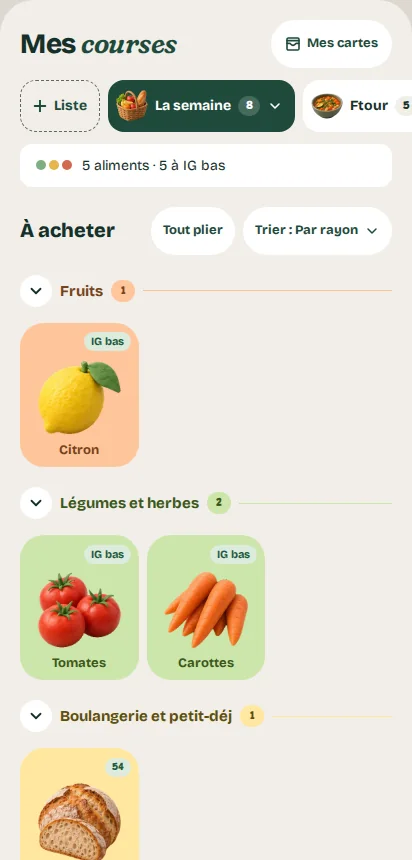
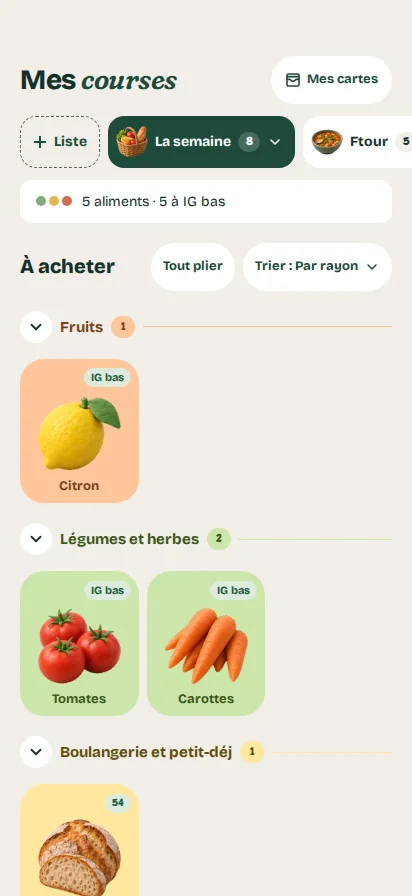
Site Glyami : cadre de téléphone réaliste, Pépin plus présent
Claude-Session: https://claude.ai/code/session_01Np99vNgDBieGw3tB7EqQeo

diff --git a/ar/index.html b/ar/index.html
@@ -19,7 +19,7 @@
 <meta property="og:site_name" content="Glyami">
 <meta property="og:locale" content="ar_AR">
 <meta property="og:url" content="https://glyami.app/ar/">
-<link rel="stylesheet" href="../assets/site.css?v=cc671edc75">
+<link rel="stylesheet" href="../assets/site.css?v=adc2521a4f">
 <script>
 document.documentElement.className="js";
 /* Mesure d'audience anonyme, sans cookie (GoatCounter). Rien n'est compté si le navigateur envoie Do Not Track / GPC ou si le visiteur a refusé. */
@@ -46,7 +46,7 @@ var s=document.createElement("script");s.async=true;s.src="https://gc.zgo.at/cou
   <p class="tagline in3">مجاني، بلا حساب، بلا إعلانات. بالفرنسية والعربية والإنجليزية والإسبانية.</p>
  </div>
  <div class="hero-phone"><div>
-  <div class="device float"><div class="phone"><div class="screen"><img src="../assets/shots/scanner.webp" srcset="../assets/shots/scanner.webp 412w, ../assets/shots/scanner-2x.webp 824w" sizes="300px" width="412" height="860" alt="شاشة التطبيق: الماسح" decoding="async"><img class="on" src="../assets/shots/fiche.webp" srcset="../assets/shots/fiche.webp 412w, ../assets/shots/fiche-2x.webp 824w" sizes="300px" width="412" height="860" alt="شاشة التطبيق: صفحة منتج مع مؤشره السكري التقديري" decoding="async"><img class=" fit" src="../assets/shots/boussole.webp" srcset="../assets/shots/boussole.webp 412w, ../assets/shots/boussole-2x.webp 824w" sizes="300px" width="412" height="640" alt="شاشة التطبيق: بوصلة بيبان وبدائله" decoding="async"></div></div><img class="pepin bob" src="../assets/img/pepin-transparent.webp" alt="" width="600" height="596"></div>
+  <div class="device float"><div class="phone"><div class="screen"><img class="dark" src="../assets/shots/scanner.webp" srcset="../assets/shots/scanner.webp 412w, ../assets/shots/scanner-2x.webp 824w" sizes="300px" width="412" height="896" alt="شاشة التطبيق: الماسح" decoding="async"><img class="on" src="../assets/shots/fiche.webp" srcset="../assets/shots/fiche.webp 412w, ../assets/shots/fiche-2x.webp 824w" sizes="300px" width="412" height="896" alt="شاشة التطبيق: صفحة منتج مع مؤشره السكري التقديري" decoding="async"><img src="../assets/shots/boussole.webp" srcset="../assets/shots/boussole.webp 412w, ../assets/shots/boussole-2x.webp 824w" sizes="300px" width="412" height="896" alt="شاشة التطبيق: بوصلة بيبان وبدائله" decoding="async"><div class="sb" dir="ltr" aria-hidden="true"><span>9:41</span><svg viewBox="0 0 46 12" fill="currentColor"><path d="M8 11.2.6 3.7a10.4 10.4 0 0 1 14.8 0z"></path><path d="M19.4 11.2h10.4V.8z"></path><rect x="36.9" y=".4" width="3.2" height="2" rx=".6"></rect><rect x="35" y="1.7" width="7" height="9.6" rx="1.5"></rect></svg></div><span class="cam" aria-hidden="true"></span><span class="pill" aria-hidden="true"></span></div></div><img class="pepin bob" src="../assets/img/pepin-transparent.webp" alt="" width="600" height="596"></div>
   <p class="shots-note">شاشات التطبيق معروضة بالفرنسية.</p>
  </div></div>
 </section>
@@ -66,7 +66,7 @@ var s=document.createElement("script");s.async=true;s.src="https://gc.zgo.at/cou
    <div class="tiles" role="group" aria-label="مشترياتي"><button type="button" class="tile l0" aria-pressed="true"><span class="tick"><svg viewBox="0 0 16 16" width="13" height="13" aria-hidden="true"><path d="M3 8.5 L6.5 12 L13 4.5" fill="none" stroke="#1E4A3A" stroke-width="2.6" stroke-linecap="round" stroke-linejoin="round"></path></svg></span><b>عدس أخضر</b><i>مؤشر منخفض</i></button><button type="button" class="tile l0" aria-pressed="false"><span class="tick"><svg viewBox="0 0 16 16" width="13" height="13" aria-hidden="true"><path d="M3 8.5 L6.5 12 L13 4.5" fill="none" stroke="#1E4A3A" stroke-width="2.6" stroke-linecap="round" stroke-linejoin="round"></path></svg></span><b>طماطم</b><i>مؤشر منخفض</i></button><button type="button" class="tile l1" aria-pressed="false"><span class="tick"><svg viewBox="0 0 16 16" width="13" height="13" aria-hidden="true"><path d="M3 8.5 L6.5 12 L13 4.5" fill="none" stroke="#1E4A3A" stroke-width="2.6" stroke-linecap="round" stroke-linejoin="round"></path></svg></span><b>أرز بسمتي</b><i>مؤشر متوسط</i></button><button type="button" class="tile l0" aria-pressed="true"><span class="tick"><svg viewBox="0 0 16 16" width="13" height="13" aria-hidden="true"><path d="M3 8.5 L6.5 12 L13 4.5" fill="none" stroke="#1E4A3A" stroke-width="2.6" stroke-linecap="round" stroke-linejoin="round"></path></svg></span><b>تفاح</b><i>مؤشر منخفض</i></button><button type="button" class="tile l2" aria-pressed="false"><span class="tick"><svg viewBox="0 0 16 16" width="13" height="13" aria-hidden="true"><path d="M3 8.5 L6.5 12 L13 4.5" fill="none" stroke="#1E4A3A" stroke-width="2.6" stroke-linecap="round" stroke-linejoin="round"></path></svg></span><b>خبز كامل</b><i>مؤشر مرتفع</i></button><button type="button" class="tile l0" aria-pressed="false"><span class="tick"><svg viewBox="0 0 16 16" width="13" height="13" aria-hidden="true"><path d="M3 8.5 L6.5 12 L13 4.5" fill="none" stroke="#1E4A3A" stroke-width="2.6" stroke-linecap="round" stroke-linejoin="round"></path></svg></span><b>لبن زبادي طبيعي</b><i>مؤشر منخفض</i></button><button type="button" class="tile l0" aria-pressed="false"><span class="tick"><svg viewBox="0 0 16 16" width="13" height="13" aria-hidden="true"><path d="M3 8.5 L6.5 12 L13 4.5" fill="none" stroke="#1E4A3A" stroke-width="2.6" stroke-linecap="round" stroke-linejoin="round"></path></svg></span><b>جزر</b><i>مؤشر منخفض</i></button><button type="button" class="tile l2" aria-pressed="false"><span class="tick"><svg viewBox="0 0 16 16" width="13" height="13" aria-hidden="true"><path d="M3 8.5 L6.5 12 L13 4.5" fill="none" stroke="#1E4A3A" stroke-width="2.6" stroke-linecap="round" stroke-linejoin="round"></path></svg></span><b>باغيت</b><i>مؤشر مرتفع</i></button></div>
   </div>
  </div>
- <div class="courses-phone"><div class="phone half rise"><img src="../assets/shots/courses.webp" srcset="../assets/shots/courses.webp 412w, ../assets/shots/courses-2x.webp 824w" sizes="(max-width: 760px) 80vw, 296px" width="412" height="860" alt="شاشة التطبيق: قائمة المشتريات على شكل بطاقات مرتبة حسب الأقسام" loading="lazy" decoding="async"></div></div>
+ <div class="courses-phone"><div class="phone half rise"><div class="screen"><img class="on" src="../assets/shots/courses.webp" srcset="../assets/shots/courses.webp 412w, ../assets/shots/courses-2x.webp 824w" sizes="(max-width: 760px) 80vw, 296px" width="412" height="896" alt="شاشة التطبيق: قائمة المشتريات على شكل بطاقات مرتبة حسب الأقسام" loading="lazy" decoding="async"><div class="sb" dir="ltr" aria-hidden="true"><span>9:41</span><svg viewBox="0 0 46 12" fill="currentColor"><path d="M8 11.2.6 3.7a10.4 10.4 0 0 1 14.8 0z"></path><path d="M19.4 11.2h10.4V.8z"></path><rect x="36.9" y=".4" width="3.2" height="2" rx=".6"></rect><rect x="35" y="1.7" width="7" height="9.6" rx="1.5"></rect></svg></div><span class="cam" aria-hidden="true"></span></div></div></div>
 </section>
 
 <section class="block" id="fonctions" aria-labelledby="t-fonctions">
@@ -126,7 +126,7 @@ var s=document.createElement("script");s.async=true;s.src="https://gc.zgo.at/cou
 </footer>
 </div>
 <script>(function(){var d=document,red=window.matchMedia&&matchMedia("(prefers-reduced-motion: reduce)").matches;
-var ws=[].slice.call(d.querySelectorAll(".w")),ss=[].slice.call(d.querySelectorAll(".screen img")),i=1,t;
+var ws=[].slice.call(d.querySelectorAll(".w")),ss=[].slice.call(d.querySelectorAll(".hero .screen img")),i=1,t;
 function show(n){i=n;ws.forEach(function(w,k){w.classList.toggle("on",k===n);w.setAttribute("aria-pressed",k===n?"true":"false")});ss.forEach(function(s,k){s.classList.toggle("on",k===n)})}
 function start(){clearInterval(t);if(!red)t=setInterval(function(){if(!d.hidden)show((i+1)%ws.length)},3600)}
 ws.forEach(function(w,k){w.addEventListener("click",function(){show(k);start()})});show(1);start();

diff --git a/es/index.html b/es/index.html
@@ -19,7 +19,7 @@
 <meta property="og:site_name" content="Glyami">
 <meta property="og:locale" content="es_ES">
 <meta property="og:url" content="https://glyami.app/es/">
-<link rel="stylesheet" href="../assets/site.css?v=cc671edc75">
+<link rel="stylesheet" href="../assets/site.css?v=adc2521a4f">
 <script>
 document.documentElement.className="js";
 /* Mesure d'audience anonyme, sans cookie (GoatCounter). Rien n'est compté si le navigateur envoie Do Not Track / GPC ou si le visiteur a refusé. */
@@ -46,7 +46,7 @@ var s=document.createElement("script");s.async=true;s.src="https://gc.zgo.at/cou
   <p class="tagline in3">Gratis, sin cuenta, sin publicidad. Francés, árabe, inglés, español.</p>
  </div>
  <div class="hero-phone"><div>
-  <div class="device float"><div class="phone"><div class="screen"><img src="../assets/shots/scanner.webp" srcset="../assets/shots/scanner.webp 412w, ../assets/shots/scanner-2x.webp 824w" sizes="300px" width="412" height="860" alt="Pantalla de la app: el escáner" decoding="async"><img class="on" src="../assets/shots/fiche.webp" srcset="../assets/shots/fiche.webp 412w, ../assets/shots/fiche-2x.webp 824w" sizes="300px" width="412" height="860" alt="Pantalla de la app: la ficha de un producto con su índice glucémico estimado" decoding="async"><img class=" fit" src="../assets/shots/boussole.webp" srcset="../assets/shots/boussole.webp 412w, ../assets/shots/boussole-2x.webp 824w" sizes="300px" width="412" height="640" alt="Pantalla de la app: la brújula de Pépin y sus cambios" decoding="async"></div></div><img class="pepin bob" src="../assets/img/pepin-transparent.webp" alt="" width="600" height="596"></div>
+  <div class="device float"><div class="phone"><div class="screen"><img class="dark" src="../assets/shots/scanner.webp" srcset="../assets/shots/scanner.webp 412w, ../assets/shots/scanner-2x.webp 824w" sizes="300px" width="412" height="896" alt="Pantalla de la app: el escáner" decoding="async"><img class="on" src="../assets/shots/fiche.webp" srcset="../assets/shots/fiche.webp 412w, ../assets/shots/fiche-2x.webp 824w" sizes="300px" width="412" height="896" alt="Pantalla de la app: la ficha de un producto con su índice glucémico estimado" decoding="async"><img src="../assets/shots/boussole.webp" srcset="../assets/shots/boussole.webp 412w, ../assets/shots/boussole-2x.webp 824w" sizes="300px" width="412" height="896" alt="Pantalla de la app: la brújula de Pépin y sus cambios" decoding="async"><div class="sb" dir="ltr" aria-hidden="true"><span>9:41</span><svg viewBox="0 0 46 12" fill="currentColor"><path d="M8 11.2.6 3.7a10.4 10.4 0 0 1 14.8 0z"></path><path d="M19.4 11.2h10.4V.8z"></path><rect x="36.9" y=".4" width="3.2" height="2" rx=".6"></rect><rect x="35" y="1.7" width="7" height="9.6" rx="1.5"></rect></svg></div><span class="cam" aria-hidden="true"></span><span class="pill" aria-hidden="true"></span></div></div><img class="pepin bob" src="../assets/img/pepin-transparent.webp" alt="" width="600" height="596"></div>
   <p class="shots-note">Pantallas de la app mostradas en francés.</p>
  </div></div>
 </section>
@@ -66,7 +66,7 @@ var s=document.createElement("script");s.async=true;s.src="https://gc.zgo.at/cou
    <div class="tiles" role="group" aria-label="Mis compras"><button type="button" class="tile l0" aria-pressed="true"><span class="tick"><svg viewBox="0 0 16 16" width="13" height="13" aria-hidden="true"><path d="M3 8.5 L6.5 12 L13 4.5" fill="none" stroke="#1E4A3A" stroke-width="2.6" stroke-linecap="round" stroke-linejoin="round"></path></svg></span><b>Lentejas verdes</b><i>IG bajo</i></button><button type="button" class="tile l0" aria-pressed="false"><span class="tick"><svg viewBox="0 0 16 16" width="13" height="13" aria-hidden="true"><path d="M3 8.5 L6.5 12 L13 4.5" fill="none" stroke="#1E4A3A" stroke-width="2.6" stroke-linecap="round" stroke-linejoin="round"></path></svg></span><b>Tomates</b><i>IG bajo</i></button><button type="button" class="tile l1" aria-pressed="false"><span class="tick"><svg viewBox="0 0 16 16" width="13" height="13" aria-hidden="true"><path d="M3 8.5 L6.5 12 L13 4.5" fill="none" stroke="#1E4A3A" stroke-width="2.6" stroke-linecap="round" stroke-linejoin="round"></path></svg></span><b>Arroz basmati</b><i>IG medio</i></button><button type="button" class="tile l0" aria-pressed="true"><span class="tick"><svg viewBox="0 0 16 16" width="13" height="13" aria-hidden="true"><path d="M3 8.5 L6.5 12 L13 4.5" fill="none" stroke="#1E4A3A" stroke-width="2.6" stroke-linecap="round" stroke-linejoin="round"></path></svg></span><b>Manzanas</b><i>IG bajo</i></button><button type="button" class="tile l2" aria-pressed="false"><span class="tick"><svg viewBox="0 0 16 16" width="13" height="13" aria-hidden="true"><path d="M3 8.5 L6.5 12 L13 4.5" fill="none" stroke="#1E4A3A" stroke-width="2.6" stroke-linecap="round" stroke-linejoin="round"></path></svg></span><b>Pan integral</b><i>IG alto</i></button><button type="button" class="tile l0" aria-pressed="false"><span class="tick"><svg viewBox="0 0 16 16" width="13" height="13" aria-hidden="true"><path d="M3 8.5 L6.5 12 L13 4.5" fill="none" stroke="#1E4A3A" stroke-width="2.6" stroke-linecap="round" stroke-linejoin="round"></path></svg></span><b>Yogur natural</b><i>IG bajo</i></button><button type="button" class="tile l0" aria-pressed="false"><span class="tick"><svg viewBox="0 0 16 16" width="13" height="13" aria-hidden="true"><path d="M3 8.5 L6.5 12 L13 4.5" fill="none" stroke="#1E4A3A" stroke-width="2.6" stroke-linecap="round" stroke-linejoin="round"></path></svg></span><b>Zanahorias</b><i>IG bajo</i></button><button type="button" class="tile l2" aria-pressed="false"><span class="tick"><svg viewBox="0 0 16 16" width="13" height="13" aria-hidden="true"><path d="M3 8.5 L6.5 12 L13 4.5" fill="none" stroke="#1E4A3A" stroke-width="2.6" stroke-linecap="round" stroke-linejoin="round"></path></svg></span><b>Baguette</b><i>IG alto</i></button></div>
   </div>
  </div>
- <div class="courses-phone"><div class="phone half rise"><img src="../assets/shots/courses.webp" srcset="../assets/shots/courses.webp 412w, ../assets/shots/courses-2x.webp 824w" sizes="(max-width: 760px) 80vw, 296px" width="412" height="860" alt="Pantalla de la app: la lista de la compra en fichas, ordenada por pasillo" loading="lazy" decoding="async"></div></div>
+ <div class="courses-phone"><div class="phone half rise"><div class="screen"><img class="on" src="../assets/shots/courses.webp" srcset="../assets/shots/courses.webp 412w, ../assets/shots/courses-2x.webp 824w" sizes="(max-width: 760px) 80vw, 296px" width="412" height="896" alt="Pantalla de la app: la lista de la compra en fichas, ordenada por pasillo" loading="lazy" decoding="async"><div class="sb" dir="ltr" aria-hidden="true"><span>9:41</span><svg viewBox="0 0 46 12" fill="currentColor"><path d="M8 11.2.6 3.7a10.4 10.4 0 0 1 14.8 0z"></path><path d="M19.4 11.2h10.4V.8z"></path><rect x="36.9" y=".4" width="3.2" height="2" rx=".6"></rect><rect x="35" y="1.7" width="7" height="9.6" rx="1.5"></rect></svg></div><span class="cam" aria-hidden="true"></span></div></div></div>
 </section>
 
 <section class="block" id="fonctions" aria-labelledby="t-fonctions">
@@ -126,7 +126,7 @@ var s=document.createElement("script");s.async=true;s.src="https://gc.zgo.at/cou
 </footer>
 </div>
 <script>(function(){var d=document,red=window.matchMedia&&matchMedia("(prefers-reduced-motion: reduce)").matches;
-var ws=[].slice.call(d.querySelectorAll(".w")),ss=[].slice.call(d.querySelectorAll(".screen img")),i=1,t;
+var ws=[].slice.call(d.querySelectorAll(".w")),ss=[].slice.call(d.querySelectorAll(".hero .screen img")),i=1,t;
 function show(n){i=n;ws.forEach(function(w,k){w.classList.toggle("on",k===n);w.setAttribute("aria-pressed",k===n?"true":"false")});ss.forEach(function(s,k){s.classList.toggle("on",k===n)})}
 function start(){clearInterval(t);if(!red)t=setInterval(function(){if(!d.hidden)show((i+1)%ws.length)},3600)}
 ws.forEach(function(w,k){w.addEventListener("click",function(){show(k);start()})});show(1);start();

diff --git a/index.html b/index.html
@@ -19,7 +19,7 @@
 <meta property="og:site_name" content="Glyami">
 <meta property="og:locale" content="fr_FR">
 <meta property="og:url" content="https://glyami.app/">
-<link rel="stylesheet" href="assets/site.css?v=cc671edc75">
+<link rel="stylesheet" href="assets/site.css?v=adc2521a4f">
 <script>
 document.documentElement.className="js";
 /* Mesure d'audience anonyme, sans cookie (GoatCounter). Rien n'est compté si le navigateur envoie Do Not Track / GPC ou si le visiteur a refusé. */
@@ -46,7 +46,7 @@ var s=document.createElement("script");s.async=true;s.src="https://gc.zgo.at/cou
   <p class="tagline in3">Gratuit, sans compte, sans publicité. Français, arabe, anglais, espagnol.</p>
  </div>
  <div class="hero-phone"><div>
-  <div class="device float"><div class="phone"><div class="screen"><img src="assets/shots/scanner.webp" srcset="assets/shots/scanner.webp 412w, assets/shots/scanner-2x.webp 824w" sizes="300px" width="412" height="860" alt="Écran de l&#x27;app : le scanner" decoding="async"><img class="on" src="assets/shots/fiche.webp" srcset="assets/shots/fiche.webp 412w, assets/shots/fiche-2x.webp 824w" sizes="300px" width="412" height="860" alt="Écran de l&#x27;app : la fiche d&#x27;un produit, avec son index glycémique estimé" decoding="async"><img class=" fit" src="assets/shots/boussole.webp" srcset="assets/shots/boussole.webp 412w, assets/shots/boussole-2x.webp 824w" sizes="300px" width="412" height="640" alt="Écran de l&#x27;app : la boussole de Pépin et ses échanges" decoding="async"></div></div><img class="pepin bob" src="assets/img/pepin-transparent.webp" alt="" width="600" height="596"></div>
+  <div class="device float"><div class="phone"><div class="screen"><img class="dark" src="assets/shots/scanner.webp" srcset="assets/shots/scanner.webp 412w, assets/shots/scanner-2x.webp 824w" sizes="300px" width="412" height="896" alt="Écran de l&#x27;app : le scanner" decoding="async"><img class="on" src="assets/shots/fiche.webp" srcset="assets/shots/fiche.webp 412w, assets/shots/fiche-2x.webp 824w" sizes="300px" width="412" height="896" alt="Écran de l&#x27;app : la fiche d&#x27;un produit, avec son index glycémique estimé" decoding="async"><img src="assets/shots/boussole.webp" srcset="assets/shots/boussole.webp 412w, assets/shots/boussole-2x.webp 824w" sizes="300px" width="412" height="896" alt="Écran de l&#x27;app : la boussole de Pépin et ses échanges" decoding="async"><div class="sb" dir="ltr" aria-hidden="true"><span>9:41</span><svg viewBox="0 0 46 12" fill="currentColor"><path d="M8 11.2.6 3.7a10.4 10.4 0 0 1 14.8 0z"></path><path d="M19.4 11.2h10.4V.8z"></path><rect x="36.9" y=".4" width="3.2" height="2" rx=".6"></rect><rect x="35" y="1.7" width="7" height="9.6" rx="1.5"></rect></svg></div><span class="cam" aria-hidden="true"></span><span class="pill" aria-hidden="true"></span></div></div><img class="pepin bob" src="assets/img/pepin-transparent.webp" alt="" width="600" height="596"></div>
   
  </div></div>
 </section>
@@ -66,7 +66,7 @@ var s=document.createElement("script");s.async=true;s.src="https://gc.zgo.at/cou
    <div class="tiles" role="group" aria-label="Mes courses"><button type="button" class="tile l0" aria-pressed="true"><span class="tick"><svg viewBox="0 0 16 16" width="13" height="13" aria-hidden="true"><path d="M3 8.5 L6.5 12 L13 4.5" fill="none" stroke="#1E4A3A" stroke-width="2.6" stroke-linecap="round" stroke-linejoin="round"></path></svg></span><b>Lentilles vertes</b><i>IG bas</i></button><button type="button" class="tile l0" aria-pressed="false"><span class="tick"><svg viewBox="0 0 16 16" width="13" height="13" aria-hidden="true"><path d="M3 8.5 L6.5 12 L13 4.5" fill="none" stroke="#1E4A3A" stroke-width="2.6" stroke-linecap="round" stroke-linejoin="round"></path></svg></span><b>Tomates</b><i>IG bas</i></button><button type="button" class="tile l1" aria-pressed="false"><span class="tick"><svg viewBox="0 0 16 16" width="13" height="13" aria-hidden="true"><path d="M3 8.5 L6.5 12 L13 4.5" fill="none" stroke="#1E4A3A" stroke-width="2.6" stroke-linecap="round" stroke-linejoin="round"></path></svg></span><b>Riz basmati</b><i>IG moyen</i></button><button type="button" class="tile l0" aria-pressed="true"><span class="tick"><svg viewBox="0 0 16 16" width="13" height="13" aria-hidden="true"><path d="M3 8.5 L6.5 12 L13 4.5" fill="none" stroke="#1E4A3A" stroke-width="2.6" stroke-linecap="round" stroke-linejoin="round"></path></svg></span><b>Pommes</b><i>IG bas</i></button><button type="button" class="tile l2" aria-pressed="false"><span class="tick"><svg viewBox="0 0 16 16" width="13" height="13" aria-hidden="true"><path d="M3 8.5 L6.5 12 L13 4.5" fill="none" stroke="#1E4A3A" stroke-width="2.6" stroke-linecap="round" stroke-linejoin="round"></path></svg></span><b>Pain complet</b><i>IG élevé</i></button><button type="button" class="tile l0" aria-pressed="false"><span class="tick"><svg viewBox="0 0 16 16" width="13" height="13" aria-hidden="true"><path d="M3 8.5 L6.5 12 L13 4.5" fill="none" stroke="#1E4A3A" stroke-width="2.6" stroke-linecap="round" stroke-linejoin="round"></path></svg></span><b>Yaourt nature</b><i>IG bas</i></button><button type="button" class="tile l0" aria-pressed="false"><span class="tick"><svg viewBox="0 0 16 16" width="13" height="13" aria-hidden="true"><path d="M3 8.5 L6.5 12 L13 4.5" fill="none" stroke="#1E4A3A" stroke-width="2.6" stroke-linecap="round" stroke-linejoin="round"></path></svg></span><b>Carottes</b><i>IG bas</i></button><button type="button" class="tile l2" aria-pressed="false"><span class="tick"><svg viewBox="0 0 16 16" width="13" height="13" aria-hidden="true"><path d="M3 8.5 L6.5 12 L13 4.5" fill="none" stroke="#1E4A3A" stroke-width="2.6" stroke-linecap="round" stroke-linejoin="round"></path></svg></span><b>Baguette</b><i>IG élevé</i></button></div>
   </div>
  </div>
- <div class="courses-phone"><div class="phone half rise"><img src="assets/shots/courses.webp" srcset="assets/shots/courses.webp 412w, assets/shots/courses-2x.webp 824w" sizes="(max-width: 760px) 80vw, 296px" width="412" height="860" alt="Écran de l&#x27;app : la liste de courses en tuiles, rangée par rayon" loading="lazy" decoding="async"></div></div>
+ <div class="courses-phone"><div class="phone half rise"><div class="screen"><img class="on" src="assets/shots/courses.webp" srcset="assets/shots/courses.webp 412w, assets/shots/courses-2x.webp 824w" sizes="(max-width: 760px) 80vw, 296px" width="412" height="896" alt="Écran de l&#x27;app : la liste de courses en tuiles, rangée par rayon" loading="lazy" decoding="async"><div class="sb" dir="ltr" aria-hidden="true"><span>9:41</span><svg viewBox="0 0 46 12" fill="currentColor"><path d="M8 11.2.6 3.7a10.4 10.4 0 0 1 14.8 0z"></path><path d="M19.4 11.2h10.4V.8z"></path><rect x="36.9" y=".4" width="3.2" height="2" rx=".6"></rect><rect x="35" y="1.7" width="7" height="9.6" rx="1.5"></rect></svg></div><span class="cam" aria-hidden="true"></span></div></div></div>
 </section>
 
 <section class="block" id="fonctions" aria-labelledby="t-fonctions">
@@ -126,7 +126,7 @@ var s=document.createElement("script");s.async=true;s.src="https://gc.zgo.at/cou
 </footer>
 </div>
 <script>(function(){var d=document,red=window.matchMedia&&matchMedia("(prefers-reduced-motion: reduce)").matches;
-var ws=[].slice.call(d.querySelectorAll(".w")),ss=[].slice.call(d.querySelectorAll(".screen img")),i=1,t;
+var ws=[].slice.call(d.querySelectorAll(".w")),ss=[].slice.call(d.querySelectorAll(".hero .screen img")),i=1,t;
 function show(n){i=n;ws.forEach(function(w,k){w.classList.toggle("on",k===n);w.setAttribute("aria-pressed",k===n?"true":"false")});ss.forEach(function(s,k){s.classList.toggle("on",k===n)})}
 function start(){clearInterval(t);if(!red)t=setInterval(function(){if(!d.hidden)show((i+1)%ws.length)},3600)}
 ws.forEach(function(w,k){w.addEventListener("click",function(){show(k);start()})});show(1);start();

diff --git a/en/index.html b/en/index.html
@@ -19,7 +19,7 @@
 <meta property="og:site_name" content="Glyami">
 <meta property="og:locale" content="en_US">
 <meta property="og:url" content="https://glyami.app/en/">
-<link rel="stylesheet" href="../assets/site.css?v=cc671edc75">
+<link rel="stylesheet" href="../assets/site.css?v=adc2521a4f">
 <script>
 document.documentElement.className="js";
 /* Mesure d'audience anonyme, sans cookie (GoatCounter). Rien n'est compté si le navigateur envoie Do Not Track / GPC ou si le visiteur a refusé. */
@@ -46,7 +46,7 @@ var s=document.createElement("script");s.async=true;s.src="https://gc.zgo.at/cou
   <p class="tagline in3">Free, no account, no ads. French, Arabic, English, Spanish.</p>
  </div>
  <div class="hero-phone"><div>
-  <div class="device float"><div class="phone"><div class="screen"><img src="../assets/shots/scanner.webp" srcset="../assets/shots/scanner.webp 412w, ../assets/shots/scanner-2x.webp 824w" sizes="300px" width="412" height="860" alt="App screen: the scanner" decoding="async"><img class="on" src="../assets/shots/fiche.webp" srcset="../assets/shots/fiche.webp 412w, ../assets/shots/fiche-2x.webp 824w" sizes="300px" width="412" height="860" alt="App screen: a product page with its estimated glycemic index" decoding="async"><img class=" fit" src="../assets/shots/boussole.webp" srcset="../assets/shots/boussole.webp 412w, ../assets/shots/boussole-2x.webp 824w" sizes="300px" width="412" height="640" alt="App screen: Pépin&#x27;s compass and his swaps" decoding="async"></div></div><img class="pepin bob" src="../assets/img/pepin-transparent.webp" alt="" width="600" height="596"></div>
+  <div class="device float"><div class="phone"><div class="screen"><img class="dark" src="../assets/shots/scanner.webp" srcset="../assets/shots/scanner.webp 412w, ../assets/shots/scanner-2x.webp 824w" sizes="300px" width="412" height="896" alt="App screen: the scanner" decoding="async"><img class="on" src="../assets/shots/fiche.webp" srcset="../assets/shots/fiche.webp 412w, ../assets/shots/fiche-2x.webp 824w" sizes="300px" width="412" height="896" alt="App screen: a product page with its estimated glycemic index" decoding="async"><img src="../assets/shots/boussole.webp" srcset="../assets/shots/boussole.webp 412w, ../assets/shots/boussole-2x.webp 824w" sizes="300px" width="412" height="896" alt="App screen: Pépin&#x27;s compass and his swaps" decoding="async"><div class="sb" dir="ltr" aria-hidden="true"><span>9:41</span><svg viewBox="0 0 46 12" fill="currentColor"><path d="M8 11.2.6 3.7a10.4 10.4 0 0 1 14.8 0z"></path><path d="M19.4 11.2h10.4V.8z"></path><rect x="36.9" y=".4" width="3.2" height="2" rx=".6"></rect><rect x="35" y="1.7" width="7" height="9.6" rx="1.5"></rect></svg></div><span class="cam" aria-hidden="true"></span><span class="pill" aria-hidden="true"></span></div></div><img class="pepin bob" src="../assets/img/pepin-transparent.webp" alt="" width="600" height="596"></div>
   <p class="shots-note">App screens shown in French.</p>
  </div></div>
 </section>
@@ -66,7 +66,7 @@ var s=document.createElement("script");s.async=true;s.src="https://gc.zgo.at/cou
    <div class="tiles" role="group" aria-label="My shopping"><button type="button" class="tile l0" aria-pressed="true"><span class="tick"><svg viewBox="0 0 16 16" width="13" height="13" aria-hidden="true"><path d="M3 8.5 L6.5 12 L13 4.5" fill="none" stroke="#1E4A3A" stroke-width="2.6" stroke-linecap="round" stroke-linejoin="round"></path></svg></span><b>Green lentils</b><i>Low GI</i></button><button type="button" class="tile l0" aria-pressed="false"><span class="tick"><svg viewBox="0 0 16 16" width="13" height="13" aria-hidden="true"><path d="M3 8.5 L6.5 12 L13 4.5" fill="none" stroke="#1E4A3A" stroke-width="2.6" stroke-linecap="round" stroke-linejoin="round"></path></svg></span><b>Tomatoes</b><i>Low GI</i></button><button type="button" class="tile l1" aria-pressed="false"><span class="tick"><svg viewBox="0 0 16 16" width="13" height="13" aria-hidden="true"><path d="M3 8.5 L6.5 12 L13 4.5" fill="none" stroke="#1E4A3A" stroke-width="2.6" stroke-linecap="round" stroke-linejoin="round"></path></svg></span><b>Basmati rice</b><i>Medium GI</i></button><button type="button" class="tile l0" aria-pressed="true"><span class="tick"><svg viewBox="0 0 16 16" width="13" height="13" aria-hidden="true"><path d="M3 8.5 L6.5 12 L13 4.5" fill="none" stroke="#1E4A3A" stroke-width="2.6" stroke-linecap="round" stroke-linejoin="round"></path></svg></span><b>Apples</b><i>Low GI</i></button><button type="button" class="tile l2" aria-pressed="false"><span class="tick"><svg viewBox="0 0 16 16" width="13" height="13" aria-hidden="true"><path d="M3 8.5 L6.5 12 L13 4.5" fill="none" stroke="#1E4A3A" stroke-width="2.6" stroke-linecap="round" stroke-linejoin="round"></path></svg></span><b>Wholemeal bread</b><i>High GI</i></button><button type="button" class="tile l0" aria-pressed="false"><span class="tick"><svg viewBox="0 0 16 16" width="13" height="13" aria-hidden="true"><path d="M3 8.5 L6.5 12 L13 4.5" fill="none" stroke="#1E4A3A" stroke-width="2.6" stroke-linecap="round" stroke-linejoin="round"></path></svg></span><b>Plain yoghurt</b><i>Low GI</i></button><button type="button" class="tile l0" aria-pressed="false"><span class="tick"><svg viewBox="0 0 16 16" width="13" height="13" aria-hidden="true"><path d="M3 8.5 L6.5 12 L13 4.5" fill="none" stroke="#1E4A3A" stroke-width="2.6" stroke-linecap="round" stroke-linejoin="round"></path></svg></span><b>Carrots</b><i>Low GI</i></button><button type="button" class="tile l2" aria-pressed="false"><span class="tick"><svg viewBox="0 0 16 16" width="13" height="13" aria-hidden="true"><path d="M3 8.5 L6.5 12 L13 4.5" fill="none" stroke="#1E4A3A" stroke-width="2.6" stroke-linecap="round" stroke-linejoin="round"></path></svg></span><b>Baguette</b><i>High GI</i></button></div>
   </div>
  </div>
- <div class="courses-phone"><div class="phone half rise"><img src="../assets/shots/courses.webp" srcset="../assets/shots/courses.webp 412w, ../assets/shots/courses-2x.webp 824w" sizes="(max-width: 760px) 80vw, 296px" width="412" height="860" alt="App screen: the shopping list in tiles, sorted by aisle" loading="lazy" decoding="async"></div></div>
+ <div class="courses-phone"><div class="phone half rise"><div class="screen"><img class="on" src="../assets/shots/courses.webp" srcset="../assets/shots/courses.webp 412w, ../assets/shots/courses-2x.webp 824w" sizes="(max-width: 760px) 80vw, 296px" width="412" height="896" alt="App screen: the shopping list in tiles, sorted by aisle" loading="lazy" decoding="async"><div class="sb" dir="ltr" aria-hidden="true"><span>9:41</span><svg viewBox="0 0 46 12" fill="currentColor"><path d="M8 11.2.6 3.7a10.4 10.4 0 0 1 14.8 0z"></path><path d="M19.4 11.2h10.4V.8z"></path><rect x="36.9" y=".4" width="3.2" height="2" rx=".6"></rect><rect x="35" y="1.7" width="7" height="9.6" rx="1.5"></rect></svg></div><span class="cam" aria-hidden="true"></span></div></div></div>
 </section>
 
 <section class="block" id="fonctions" aria-labelledby="t-fonctions">
@@ -126,7 +126,7 @@ var s=document.createElement("script");s.async=true;s.src="https://gc.zgo.at/cou
 </footer>
 </div>
 <script>(function(){var d=document,red=window.matchMedia&&matchMedia("(prefers-reduced-motion: reduce)").matches;
-var ws=[].slice.call(d.querySelectorAll(".w")),ss=[].slice.call(d.querySelectorAll(".screen img")),i=1,t;
+var ws=[].slice.call(d.querySelectorAll(".w")),ss=[].slice.call(d.querySelectorAll(".hero .screen img")),i=1,t;
 function show(n){i=n;ws.forEach(function(w,k){w.classList.toggle("on",k===n);w.setAttribute("aria-pressed",k===n?"true":"false")});ss.forEach(function(s,k){s.classList.toggle("on",k===n)})}
 function start(){clearInterval(t);if(!red)t=setInterval(function(){if(!d.hidden)show((i+1)%ws.length)},3600)}
 ws.forEach(function(w,k){w.addEventListener("click",function(){show(k);start()})});show(1);start();

diff --git a/assets/site.css b/assets/site.css
@@ -51,14 +51,25 @@ header.top{display:flex;align-items:center;justify-content:space-between;gap:10p
 .lead{margin:0 0 28px;font-size:clamp(18px,2vw,21px);max-width:40ch;color:var(--ink-soft)}
 .cta-row{display:flex;flex-wrap:wrap;align-items:center;gap:12px 20px}
 .tagline{margin:22px 0 0;font-size:16px;color:var(--ink-soft)}
-.hero-phone{flex:1 1 320px;min-width:0;display:flex;justify-content:center}
-.device{position:relative;width:300px;max-width:100%}
-.phone{background:var(--night);border-radius:44px;padding:12px;box-shadow:0 40px 80px rgba(22,48,42,.25)}
-.screen{position:relative;aspect-ratio:412/860;border-radius:34px;overflow:hidden;background:var(--bg)}
+.hero-phone{flex:1 1 430px;min-width:0;display:flex;justify-content:center}
+.device{position:relative;width:300px;max-width:100%;margin-inline-start:124px}
+/* téléphone : tranche en métal, verre noir, boutons sur le côté, objectif, barre d'état */
+.phone{position:relative;padding:10px;border-radius:48px;background:linear-gradient(140deg,#7C8A83 0%,#2A3632 16%,#0E1513 46%,#1F2B27 74%,#8B9891 100%);box-shadow:0 0 0 1px #080D0B,0 3px 4px rgba(22,48,42,.35),0 30px 50px -14px rgba(22,48,42,.4),0 70px 90px -34px rgba(22,48,42,.32)}
+.phone::before,.phone::after{content:"";position:absolute;right:-3px;width:3px;border-radius:0 2px 2px 0;background:linear-gradient(90deg,#0E1513,#56645D 70%,#2A3632)}
+.phone::before{top:19%;height:8.5%}
+.phone::after{top:31%;height:15%}
+.screen{position:relative;container-type:inline-size;aspect-ratio:412/896;border-radius:38px;overflow:hidden;background:#000;box-shadow:0 0 0 7.5px #050807,0 0 0 8px rgba(255,255,255,.14)}
 .screen img{position:absolute;inset:0;width:100%;height:100%;object-fit:cover;object-position:top;opacity:0;transition:opacity .8s ease}
 .screen img.on,.no-js .screen img:nth-child(2){opacity:1}
-.screen img.fit{object-fit:contain}
-.device .pepin{position:absolute;inset-inline-start:-46px;bottom:-18px;width:112px;height:auto}
+.screen::before{content:"";position:absolute;z-index:1;left:0;right:0;bottom:0;height:30px;height:11cqw;pointer-events:none;background:linear-gradient(to top,rgba(241,238,233,.96) 28%,rgba(241,238,233,0))}
+.phone.half .screen::before{content:none}
+.screen::after{content:"";position:absolute;inset:0;z-index:4;pointer-events:none;background:linear-gradient(118deg,rgba(255,255,255,.13) 0%,rgba(255,255,255,.03) 24%,rgba(255,255,255,0) 38%)}
+.sb{position:absolute;z-index:2;top:0;left:0;right:0;height:24px;height:8.74cqw;display:flex;align-items:center;justify-content:space-between;padding:0 21px 0 22px;padding:0 7.4cqw 0 7.8cqw;font-size:10px;font-size:3.5cqw;font-weight:700;line-height:1;letter-spacing:.02em;color:var(--ink);transition:color .8s ease}
+.sb svg{display:block;height:8px;height:2.9cqw;width:auto}
+.screen img.dark.on~.sb{color:#fff}
+.cam{position:absolute;z-index:3;top:6px;top:2.2cqw;left:50%;width:12px;width:4.3cqw;aspect-ratio:1;margin-left:-6px;margin-left:-2.15cqw;border-radius:50%;background:radial-gradient(circle at 36% 32%,#3D4E63 0,#121A22 30%,#000 60%);box-shadow:0 0 0 1px rgba(255,255,255,.07)}
+.pill{position:absolute;z-index:3;bottom:6px;bottom:2.1cqw;left:50%;width:72px;width:26cqw;height:3px;height:1.2cqw;margin-left:-36px;margin-left:-13cqw;border-radius:9px;background:rgba(22,48,42,.62)}
+.device .pepin{position:absolute;z-index:5;inset-inline-start:-142px;bottom:-40px;width:184px;height:auto;filter:drop-shadow(0 14px 14px rgba(22,48,42,.22))}
 .shots-note{margin:14px 0 0;font-size:14px;color:var(--ink-soft);text-align:center}
 
 /* trois étapes */
@@ -92,8 +103,10 @@ header.top{display:flex;align-items:center;justify-content:space-between;gap:10p
 .tile[aria-pressed=true]{background:var(--green);color:#fff;transform:scale(.96)}
 .tile[aria-pressed=true] .tick{opacity:1}
 .courses-phone{flex:0 1 320px;min-width:0;margin:0 auto;align-self:flex-end}
-.phone.half{border-radius:44px 44px 0 0;padding:12px 12px 0;box-shadow:0 30px 70px rgba(22,48,42,.25);transition:transform 1.1s cubic-bezier(.2,.7,.2,1)}
-.phone.half img{display:block;width:100%;height:560px;object-fit:cover;object-position:top;border-radius:34px 34px 0 0}
+.phone.half{border-radius:48px 48px 0 0;padding:10px 10px 0;clip-path:inset(-120px -120px 0 -120px);transition:transform 1.1s cubic-bezier(.2,.7,.2,1)}
+.phone.half .screen{aspect-ratio:auto;height:560px;border-radius:38px 38px 0 0}
+.phone.half::before{top:132px;height:52px}
+.phone.half::after{top:204px;height:92px}
 .js .rise:not(.seen){transform:translateY(120px)}
 
 /* grille des autres fonctions */
@@ -231,6 +244,7 @@ footer nav a{color:var(--ink);font-weight:700}
  .bento{grid-template-columns:1fr}
  .b4,.b3,.b2{grid-column:auto}
  .hero{padding-top:36px}
- .device .pepin{inset-inline-start:-24px;width:92px}
+ .device{margin-inline-start:0;margin-bottom:86px}
+ .device .pepin{inset-inline-start:max(-40px,calc(156px - 50vw));bottom:-74px;width:136px}
 }
 @media (max-width:420px){.wrap{padding:0 16px}.logo{font-size:22px}.langs a{padding:10px 6px;min-width:38px}.bento>div{padding:22px}}

diff --git a/es/condiciones.html b/es/condiciones.html
@@ -19,7 +19,7 @@
 <meta property="og:site_name" content="Glyami">
 <meta property="og:locale" content="es_ES">
 <meta property="og:url" content="https://glyami.app/es/condiciones.html">
-<link rel="stylesheet" href="../assets/site.css?v=cc671edc75">
+<link rel="stylesheet" href="../assets/site.css?v=adc2521a4f">
 <script>
 document.documentElement.className="js";
 /* Mesure d'audience anonyme, sans cookie (GoatCounter). Rien n'est compté si le navigateur envoie Do Not Track / GPC ou si le visiteur a refusé. */

diff --git a/es/privacidad.html b/es/privacidad.html
@@ -19,7 +19,7 @@
 <meta property="og:site_name" content="Glyami">
 <meta property="og:locale" content="es_ES">
 <meta property="og:url" content="https://glyami.app/es/privacidad.html">
-<link rel="stylesheet" href="../assets/site.css?v=cc671edc75">
+<link rel="stylesheet" href="../assets/site.css?v=adc2521a4f">
 <script>
 document.documentElement.className="js";
 /* Mesure d'audience anonyme, sans cookie (GoatCounter). Rien n'est compté si le navigateur envoie Do Not Track / GPC ou si le visiteur a refusé. */

diff --git a/ar/privacy.html b/ar/privacy.html
@@ -19,7 +19,7 @@
 <meta property="og:site_name" content="Glyami">
 <meta property="og:locale" content="ar_AR">
 <meta property="og:url" content="https://glyami.app/ar/privacy.html">
-<link rel="stylesheet" href="../assets/site.css?v=cc671edc75">
+<link rel="stylesheet" href="../assets/site.css?v=adc2521a4f">
 <script>
 document.documentElement.className="js";
 /* Mesure d'audience anonyme, sans cookie (GoatCounter). Rien n'est compté si le navigateur envoie Do Not Track / GPC ou si le visiteur a refusé. */

diff --git a/en/privacy.html b/en/privacy.html
@@ -19,7 +19,7 @@
 <meta property="og:site_name" content="Glyami">
 <meta property="og:locale" content="en_US">
 <meta property="og:url" content="https://glyami.app/en/privacy.html">
-<link rel="stylesheet" href="../assets/site.css?v=cc671edc75">
+<link rel="stylesheet" href="../assets/site.css?v=adc2521a4f">
 <script>
 document.documentElement.className="js";
 /* Mesure d'audience anonyme, sans cookie (GoatCounter). Rien n'est compté si le navigateur envoie Do Not Track / GPC ou si le visiteur a refusé. */

diff --git a/ar/method.html b/ar/method.html
@@ -19,7 +19,7 @@
 <meta property="og:site_name" content="Glyami">
 <meta property="og:locale" content="ar_AR">
 <meta property="og:url" content="https://glyami.app/ar/method.html">
-<link rel="stylesheet" href="../assets/site.css?v=cc671edc75">
+<link rel="stylesheet" href="../assets/site.css?v=adc2521a4f">
 <script>
 document.documentElement.className="js";
 /* Mesure d'audience anonyme, sans cookie (GoatCounter). Rien n'est compté si le navigateur envoie Do Not Track / GPC ou si le visiteur a refusé. */

diff --git a/confidentialite.html b/confidentialite.html
@@ -19,7 +19,7 @@
 <meta property="og:site_name" content="Glyami">
 <meta property="og:locale" content="fr_FR">
 <meta property="og:url" content="https://glyami.app/confidentialite.html">
-<link rel="stylesheet" href="assets/site.css?v=cc671edc75">
+<link rel="stylesheet" href="assets/site.css?v=adc2521a4f">
 <script>
 document.documentElement.className="js";
 /* Mesure d'audience anonyme, sans cookie (GoatCounter). Rien n'est compté si le navigateur envoie Do Not Track / GPC ou si le visiteur a refusé. */

diff --git a/en/method.html b/en/method.html
@@ -19,7 +19,7 @@
 <meta property="og:site_name" content="Glyami">
 <meta property="og:locale" content="en_US">
 <meta property="og:url" content="https://glyami.app/en/method.html">
-<link rel="stylesheet" href="../assets/site.css?v=cc671edc75">
+<link rel="stylesheet" href="../assets/site.css?v=adc2521a4f">
 <script>
 document.documentElement.className="js";
 /* Mesure d'audience anonyme, sans cookie (GoatCounter). Rien n'est compté si le navigateur envoie Do Not Track / GPC ou si le visiteur a refusé. */
